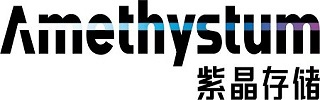
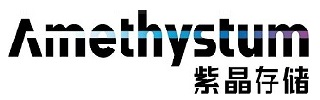
专委320*100

diff --git a/css/nasac_fmac.css b/css/nasac_fmac.css
@@ -801,20 +801,20 @@ top:0
 
 .ccflogo1{
 	background-image:url(../images/ccf_logo.png);
-	width:307px;
-	height:50px
+	width: 320px;
+	height: 100px;
 }
 
 .ccflogo2{
 	background-image:url(../images/CCF_tixi.png);
-	width:307px;
-	height:50px;
+	width: 320px;
+	height: 100px;
 }
 
 .ccflogo3{
 	background-image:url(../images/CCF_cunchu.png);
-	width:321px;
-	height:51px;
+	width: 320px;
+	height: 100px;
 }
 
 .ccflogo4{
@@ -823,14 +823,14 @@ top:0
 
 .ccflogo5{
 	background-image:url(../images/zheda.png);
-	width:244px;
-	height:50px;
+	width: 320px;
+	height: 100px;
 }
 
 .ccflogo6{
 	background-image:url(../images/kongjianlab.png);
-	width:316px;
-	height:50px;
+	width: 320px;
+	height: 100px;
 }
 
 .sponsor1{
